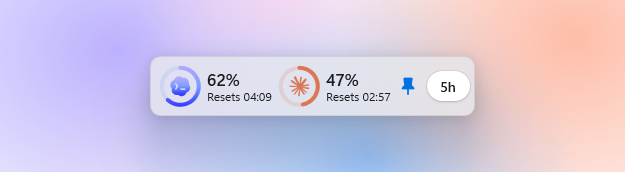
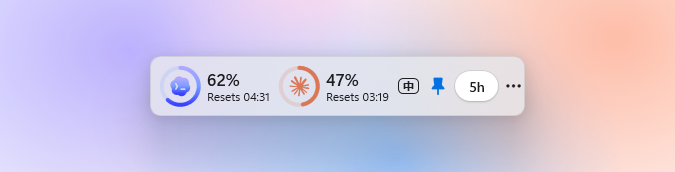
Move the widget menu to a visible button and add a language button
The menu now opens from a ⋯ button to the right of the 5h / 7d toggle,
dropping below the strip and right-aligned with it, instead of on
right-click. An EN / 中 button left of the pin switches the language
in place, so the menu no longer carries that item. The strip widens
from 260 to 300 DIP to fit both buttons.

Desktop tests now open the menu through ⋯, check its placement, and
switch language through the new button. README screenshots updated.

Changed region(s): [[0.2128, 0.3198, 0.7904, 0.6686]]

diff --git a/desktop/Widget.cs b/desktop/Widget.cs
@@ -97,11 +97,13 @@ namespace AgentHud
         readonly Border rim = new Border { BorderThickness = new Thickness(1), Margin = new Thickness(1), IsHitTestVisible = false };
         readonly System.Windows.Shapes.Path pinShape = new System.Windows.Shapes.Path { Data = Geometry.Parse("M5,2 H11 L10.3,7.3 L12.5,10 H3.5 L5.7,7.3 Z M8,10 V14.5"), StrokeThickness = 1.4, StrokeLineJoin = PenLineJoin.Round, StrokeStartLineCap = PenLineCap.Round, StrokeEndLineCap = PenLineCap.Round };
         readonly System.Windows.Shapes.Path pinSlash = new System.Windows.Shapes.Path { Data = Geometry.Parse("M2,2 L14,14"), StrokeThickness = 1.5, StrokeStartLineCap = PenLineCap.Round, StrokeEndLineCap = PenLineCap.Round };
+        readonly TextBlock langText = new TextBlock { FontSize = 8.5, FontWeight = FontWeights.SemiBold, HorizontalAlignment = HorizontalAlignment.Center, VerticalAlignment = VerticalAlignment.Center };
         Grid capsule;
         Palette palette;
         WidgetState saved = new WidgetState();
         Snapshot snapshot;
-        Button periodButton, pinButton;
+        Button periodButton, pinButton, langButton, moreButton;
+        ContextMenu menu;
         Forms.NotifyIcon tray;
         bool busy, online, exiting, degraded;
         double lastServiceStart;
@@ -114,7 +116,7 @@ namespace AgentHud
             ReadState();
             Lang.Apply(saved.language);
             Title = "Agent HUD Widget";
-            Width = 260; Height = 48;
+            Width = 300; Height = 48;
             WindowStyle = WindowStyle.None; ResizeMode = ResizeMode.NoResize;
             // Not a layered window: DWM only honours the capsule region for the blur on regular windows.
             // The glass frame spans the whole client area so transparent pixels show the blurred backdrop.
@@ -214,8 +216,8 @@ namespace AgentHud
             capsule = new Grid { Cursor = Cursors.SizeAll, Background = Brushes.Transparent };
             capsule.Children.Add(tint); capsule.Children.Add(sheen); capsule.Children.Add(edge); capsule.Children.Add(rim);
             var body = new Grid();
-            // The two buttons get the strip's full height as hit area (the visible chip stays small).
-            foreach (var width in new[] { 7.0, 34, 5, 52, 5, 34, 5, 52, -1, 22, 42, 2 })
+            // Language · pin · period · more: each button gets the strip's full height as hit area (the visible chip stays small).
+            foreach (var width in new[] { 7.0, 34, 5, 52, 5, 34, 5, 52, -1, 24, 22, 40, 18, 2 })
                 body.ColumnDefinitions.Add(new ColumnDefinition { Width = width < 0 ? new GridLength(1, GridUnitType.Star) : new GridLength(width) });
             capsule.Children.Add(body);
             codex.VerticalAlignment = VerticalAlignment.Center; Grid.SetColumn(codex, 1); body.Children.Add(codex);
@@ -223,27 +225,35 @@ namespace AgentHud
             claude.VerticalAlignment = VerticalAlignment.Center; Grid.SetColumn(claude, 5); body.Children.Add(claude);
             Grid.SetColumn(claudeLabel, 7); body.Children.Add(claudeLabel);
 
-            capsule.ContextMenu = BuildMenu();
+            // Same mark as the dashboard's language button: the language it switches to, in a rounded outline.
+            langText.SetResourceReference(TextBlock.ForegroundProperty, "Text");
+            var langGlyph = new Border { MinWidth = 17, Height = 13, CornerRadius = new CornerRadius(3.5), BorderThickness = new Thickness(1.1), Padding = new Thickness(2, 0, 2, 0), Child = langText, HorizontalAlignment = HorizontalAlignment.Center, VerticalAlignment = VerticalAlignment.Center };
+            langGlyph.SetResourceReference(Border.BorderBrushProperty, "Text");
+            langButton = IconButton(langGlyph, 24, "LanguageButton", 9);
+            langButton.Click += delegate { ToggleLanguage(); };
+
             var pinIcon = new Grid { Width = 16, Height = 16, VerticalAlignment = VerticalAlignment.Center, HorizontalAlignment = HorizontalAlignment.Center };
             pinIcon.Children.Add(pinShape); pinIcon.Children.Add(pinSlash);
-            // One click pins, the next unpins; the full menu stays on right-click anywhere on the strip.
-            pinButton = new Button { Content = pinIcon, Width = 22, Height = 46, RenderTransform = new ScaleTransform(), RenderTransformOrigin = new Point(.5, .5) };
-            pinButton.SetResourceReference(StyleProperty, "IconChip");
-            AutomationProperties.SetAutomationId(pinButton, "PinButton");
+            // One click pins, the next unpins.
+            pinButton = IconButton(pinIcon, 22, "PinButton", 10);
             pinButton.Click += delegate { SetPinned(!saved.pinned); };
-            pinButton.PreviewMouseLeftButtonDown += delegate { Press(pinButton, .9, 100); };
-            pinButton.PreviewMouseLeftButtonUp += delegate { Press(pinButton, 1, 220); };
-            pinButton.MouseLeave += delegate { Press(pinButton, 1, 220); };
-            Grid.SetColumn(pinButton, 9); body.Children.Add(pinButton);
 
-            periodButton = new Button { Content = "5h", Width = 42, Height = 46, FontSize = 11, FontWeight = FontWeights.SemiBold, RenderTransform = new ScaleTransform() };
+            periodButton = new Button { Content = "5h", Width = 40, Height = 46, FontSize = 11, FontWeight = FontWeights.SemiBold, RenderTransform = new ScaleTransform() };
             periodButton.SetResourceReference(StyleProperty, "GlassChip");
             periodButton.Click += delegate { SetPeriod(saved.period == 300 ? 10080 : 300); };
-            // Feedback on pointer-down, not release.
-            periodButton.PreviewMouseLeftButtonDown += delegate { Press(periodButton, .94, 100); };
-            periodButton.PreviewMouseLeftButtonUp += delegate { Press(periodButton, 1, 220); };
-            periodButton.MouseLeave += delegate { Press(periodButton, 1, 220); };
-            Grid.SetColumn(periodButton, 10); body.Children.Add(periodButton);
+            AddPressFeedback(periodButton, .94);
+            Grid.SetColumn(periodButton, 11); body.Children.Add(periodButton);
+
+            // The menu lives behind ⋯ rather than on right-click, so it can be found by looking.
+            var dots = new GeometryGroup();
+            foreach (var x in new[] { 1.5, 6, 10.5 }) dots.Children.Add(new EllipseGeometry(new Point(x, 1.5), 1.35, 1.35));
+            var dotsShape = new System.Windows.Shapes.Path { Data = dots, HorizontalAlignment = HorizontalAlignment.Center, VerticalAlignment = VerticalAlignment.Center };
+            dotsShape.SetResourceReference(System.Windows.Shapes.Shape.FillProperty, "Text");
+            moreButton = IconButton(dotsShape, 18, "MoreButton", 12);
+            moreButton.Click += delegate { OpenMenu(); };
+            menu = BuildMenu();
+            UpdateLanguageButton();
+            body.Children.Add(langButton); body.Children.Add(pinButton); body.Children.Add(moreButton);
 
             capsule.MouseLeftButtonDown += delegate(object sender, MouseButtonEventArgs e)
             {
@@ -254,6 +264,22 @@ namespace AgentHud
             return capsule;
         }
 
+        static Button IconButton(UIElement content, double width, string automationId, int column)
+        {
+            var button = new Button { Content = content, Width = width, Height = 46, RenderTransform = new ScaleTransform(), RenderTransformOrigin = new Point(.5, .5) };
+            button.SetResourceReference(StyleProperty, "IconChip");
+            AutomationProperties.SetAutomationId(button, automationId);
+            AddPressFeedback(button, .9);
+            Grid.SetColumn(button, column);
+            return button;
+        }
+        // Feedback on pointer-down, not release.
+        static void AddPressFeedback(Button button, double scale)
+        {
+            button.PreviewMouseLeftButtonDown += delegate { Press(button, scale, 100); };
+            button.PreviewMouseLeftButtonUp += delegate { Press(button, 1, 220); };
+            button.MouseLeave += delegate { Press(button, 1, 220); };
+        }
         // Starts from the current scale, so a quick tap reverses mid-flight; no overshoot.
         static void Press(UIElement element, double to, int milliseconds)
         {
@@ -272,21 +298,40 @@ namespace AgentHud
             top.Click += delegate { SetPinned(top.IsChecked); top.IsChecked = saved.pinned; };
             var hide = new MenuItem { Header = Lang.T("收起到托盘", "Hide to tray") }; hide.Click += delegate { Hide(); };
             var reset = new MenuItem { Header = Lang.T("重置小组件位置", "Reset widget position") }; reset.Click += delegate { placement.Reset(); };
-            var language = new MenuItem { Header = LanguageSwitchText() }; language.Click += delegate { ToggleLanguage(); };
             var quit = new MenuItem { Header = Lang.T("退出小组件", "Quit widget") }; quit.Click += delegate { Close(); };
             // Keep "always on top" at index 4: the desktop tests drive it by position.
             menu.Items.Add(open); menu.Items.Add(codexUsage); menu.Items.Add(claudeUsage); menu.Items.Add(new Separator());
-            menu.Items.Add(top); menu.Items.Add(hide); menu.Items.Add(reset); menu.Items.Add(language); menu.Items.Add(new Separator()); menu.Items.Add(quit);
+            menu.Items.Add(top); menu.Items.Add(hide); menu.Items.Add(reset); menu.Items.Add(new Separator()); menu.Items.Add(quit);
             menu.Opened += delegate { top.IsChecked = saved.pinned; }; return menu;
+        }
+        // Drops below the strip, right-aligned with it. The menu template keeps a 14 DIP transparent
+        // margin for its shadow, so the offsets cancel it; WPF flips the menu above near the screen bottom.
+        void OpenMenu()
+        {
+            menu.PlacementTarget = capsule; menu.Placement = PlacementMode.Bottom;
+            menu.Measure(new Size(double.PositiveInfinity, double.PositiveInfinity));
+            menu.HorizontalOffset = capsule.ActualWidth - menu.DesiredSize.Width + 14;
+            menu.VerticalOffset = -14 + 6;
+            menu.IsOpen = true;
         }
         // Written in the language it switches to, so it can be found by someone who can't read the current one.
         static string LanguageSwitchText() { return Lang.English ? "切换到中文" : "Switch to English"; }
+        void UpdateLanguageButton()
+        {
+            langText.Text = Lang.English ? "中" : "EN";
+            langButton.ToolTip = LanguageSwitchText();
+            AutomationProperties.SetName(langButton, LanguageSwitchText());
+            moreButton.ToolTip = Lang.T("更多选项", "More options");
+            AutomationProperties.SetName(moreButton, Lang.T("更多选项", "More options"));
+        }
         void ToggleLanguage() { SetLanguage(Lang.English ? "zh" : "en"); }
         // Saved, then every visible string is rebuilt in place — no restart needed.
         void SetLanguage(string language)
         {
             saved.language = language; Lang.Apply(language); SaveState();
-            capsule.ContextMenu = BuildMenu();
+            menu.IsOpen = false;
+            menu = BuildMenu();
+            UpdateLanguageButton();
             var oldTray = tray.ContextMenuStrip;
             tray.Text = Lang.T("Agent HUD · 额度小组件", "Agent HUD · quota widget");
             tray.ContextMenuStrip = BuildTrayMenu();
@@ -318,7 +363,7 @@ namespace AgentHud
             pinShape.Stroke = brush; pinShape.Fill = saved.pinned ? brush : Brushes.Transparent;
             pinSlash.Stroke = brush; pinSlash.Visibility = saved.pinned ? Visibility.Collapsed : Visibility.Visible;
             var action = saved.pinned ? Lang.T("已置顶 · 点击取消置顶", "Pinned · click to unpin") : Lang.T("未置顶 · 点击置顶", "Not pinned · click to pin");
-            pinButton.ToolTip = action + Lang.T("\n右键打开更多选项", "\nRight-click for more options");
+            pinButton.ToolTip = action;
             AutomationProperties.SetName(pinButton, saved.pinned ? Lang.T("已置顶，点击取消置顶", "Pinned, click to unpin") : Lang.T("未置顶，点击置顶", "Not pinned, click to pin"));
         }
         async Task Fetch()
@@ -368,7 +413,7 @@ namespace AgentHud
             var wasDegraded = degraded;
             degraded = !online;
             if (degraded != wasDegraded) rim.BorderBrush = degraded ? palette.RimOffline : palette.Rim;
-            var detail = Lang.T("拖动可移动 · 靠近屏幕边缘自动贴边 · 右键打开菜单\n", "Drag to move · snaps to screen edges · right-click for the menu\n")
+            var detail = Lang.T("拖动可移动 · 靠近屏幕边缘自动贴边 · ⋯ 打开菜单\n", "Drag to move · snaps to screen edges · ⋯ opens the menu\n")
                 + (!online ? Lang.T("本地服务离线，正在自动重启；显示的是最后一次快照", "Local service offline, restarting automatically; showing the last snapshot")
                     : snapshot.loading ? Lang.T("正在读取额度", "Reading quotas")
                     : scanStale ? Lang.T("会话扫描延迟，额度不受影响", "Session scan delayed; quotas are unaffected")

diff --git a/desktop/test/TopmostTests.cs b/desktop/test/TopmostTests.cs
@@ -31,32 +31,33 @@ namespace AgentHud.Tests
             if (!condition) throw new Exception(message);
             Console.WriteLine("PASS " + message);
         }
+        static ContextMenu Menu(HudWindow hud) { return (ContextMenu)typeof(HudWindow).GetField("menu", System.Reflection.BindingFlags.NonPublic | System.Reflection.BindingFlags.Instance).GetValue(hud); }
         static void Toggle(HudWindow hud, bool pinned)
         {
-            var menu = ((FrameworkElement)hud.Content).ContextMenu;
-            var item = (MenuItem)menu.Items[4];
+            var item = (MenuItem)Menu(hud).Items[4];
             item.IsChecked = pinned;
             item.RaiseEvent(new RoutedEventArgs(MenuItem.ClickEvent));
             Pump();
         }
-        static Button FindPinButton(DependencyObject node)
+        static Button FindButton(DependencyObject node, string automationId)
         {
             var button = node as Button;
-            if (button != null && AutomationProperties.GetAutomationId(button) == "PinButton") return button;
+            if (button != null && AutomationProperties.GetAutomationId(button) == automationId) return button;
             for (var i = 0; i < VisualTreeHelper.GetChildrenCount(node); i++)
             {
-                var found = FindPinButton(VisualTreeHelper.GetChild(node, i));
+                var found = FindButton(VisualTreeHelper.GetChild(node, i), automationId);
                 if (found != null) return found;
             }
             return null;
         }
-        static void ClickPin(HudWindow hud)
+        static void Click(HudWindow hud, string automationId)
         {
-            var button = FindPinButton(hud);
-            if (button == null) throw new Exception("pin button not found");
+            var button = FindButton(hud, automationId);
+            if (button == null) throw new Exception(automationId + " not found");
             button.RaiseEvent(new RoutedEventArgs(Button.ClickEvent));
             Pump();
         }
+        static string Header(HudWindow hud, int index) { return (string)((MenuItem)Menu(hud).Items[index]).Header; }
         [STAThread]
         public static int Main(string[] args)
         {
@@ -91,21 +92,28 @@ namespace AgentHud.Tests
                     Check(!NativePinned(hud), "unpin survives hide/show");
                     Toggle(hud, true);
                     Check(NativePinned(hud) && hud.Topmost, "pin restores managed and native state");
-                    ClickPin(hud);
+                    Click(hud, "PinButton");
                     Check(!NativePinned(hud) && !hud.Topmost, "pin button click unpins");
-                    ClickPin(hud);
+                    Click(hud, "PinButton");
                     Check(NativePinned(hud) && hud.Topmost, "second pin button click pins again");
-                    var setLanguage = typeof(HudWindow).GetMethod("SetLanguage", System.Reflection.BindingFlags.NonPublic | System.Reflection.BindingFlags.Instance);
-                    setLanguage.Invoke(hud, new object[] { "en" }); Pump();
-                    var englishMenu = ((FrameworkElement)hud.Content).ContextMenu;
-                    Check((string)((MenuItem)englishMenu.Items[4]).Header == "Always on top" && (string)((MenuItem)englishMenu.Items[7]).Header == "切换到中文" && AutomationProperties.GetName(FindPinButton(hud)).StartsWith("Pinned"), "switching to English rebuilds the menu and pin labels live");
-                    Check(NativePinned(hud), "language switch keeps the window pinned");
-                    setLanguage.Invoke(hud, new object[] { "zh" }); Pump();
-                    Check((string)((MenuItem)((FrameworkElement)hud.Content).ContextMenu.Items[4]).Header == "始终置顶", "switching back restores Chinese");
-                    var menu = ((FrameworkElement)hud.Content).ContextMenu;
-                    menu.PlacementTarget = (UIElement)hud.Content;
-                    menu.IsOpen = true; Pump(); menu.IsOpen = false; Pump();
+                    Check(((FrameworkElement)hud.Content).ContextMenu == null, "right-click on the strip no longer opens a menu");
+                    Click(hud, "MoreButton");
+                    var menu = Menu(hud);
+                    var strip = (FrameworkElement)hud.Content;
+                    var stripCorner = strip.PointToScreen(new Point(strip.ActualWidth, strip.ActualHeight));
+                    // The template's 14 DIP shadow margin surrounds the visible menu.
+                    var menuCorner = menu.PointToScreen(new Point(menu.ActualWidth - 14, 14));
+                    Console.WriteLine("Strip bottom-right " + stripCorner + ", menu top-right " + menuCorner);
+                    Check(menu.IsOpen && Math.Abs(menuCorner.X - stripCorner.X) <= 3 && menuCorner.Y > stripCorner.Y && menuCorner.Y - stripCorner.Y < 20, "the more button opens the menu right-aligned just below the strip");
+                    menu.IsOpen = false; Pump();
                     Check(NativePinned(hud), "opening and closing the menu preserves pinning");
+                    // Start from Chinese whatever the machine's display language, so the toggle direction is known.
+                    typeof(HudWindow).GetMethod("SetLanguage", System.Reflection.BindingFlags.NonPublic | System.Reflection.BindingFlags.Instance).Invoke(hud, new object[] { "zh" }); Pump();
+                    Click(hud, "LanguageButton");
+                    Check(Header(hud, 4) == "Always on top" && AutomationProperties.GetName(FindButton(hud, "LanguageButton")) == "切换到中文" && AutomationProperties.GetName(FindButton(hud, "MoreButton")) == "More options" && AutomationProperties.GetName(FindButton(hud, "PinButton")).StartsWith("Pinned"), "the language button switches the menu and button labels to English live");
+                    Check(NativePinned(hud), "language switch keeps the window pinned");
+                    Click(hud, "LanguageButton");
+                    Check(Header(hud, 4) == "始终置顶" && AutomationProperties.GetName(FindButton(hud, "LanguageButton")) == "Switch to English", "a second click switches back to Chinese");
                     var foreground = GetForegroundWindow();
                     // Reproduce a native z-order change without changing WPF's cached Topmost value.
                     Check(SetWindowPos(handle, new IntPtr(-2), 0, 0, 0, 0, 0x213), "native demotion succeeded");

diff --git a/desktop/Models.cs b/desktop/Models.cs
@@ -79,7 +79,7 @@ namespace AgentHud
                 result.Caption = result.Status == RingStatus.Setup ? Lang.T("等待连接", "Connection not enabled") : result.Status == RingStatus.NotLinked ? Lang.T("桌面版未接入", "Desktop app not linked") : Lang.T("额度未提供", "Quota not provided");
                 result.Detail = Lang.Server(provider.quotaMessage) ?? Lang.T("这个平台还没有提供所选周期的额度。可打开完整面板查看接入状态。", "This platform hasn't reported a quota for the selected window yet. Open the dashboard to check the connection.");
                 result.Detail += "\n" + UpdatedText(limits == null ? null : limits.collectedAt, now);
-                result.Detail += provider.id == "claude" ? Lang.T("\n右键小组件 → Claude 官方用量，查看当前账户额度。", "\nRight-click the widget → Claude usage to see this account's quota.") : Lang.T("\n右键小组件 → Codex 官方用量，查看当前账户额度。", "\nRight-click the widget → Codex usage to see this account's quota.");
+                result.Detail += provider.id == "claude" ? Lang.T("\n点 ⋯ → Claude 官方用量，查看当前账户额度。", "\n⋯ → Claude usage shows this account's quota.") : Lang.T("\n点 ⋯ → Codex 官方用量，查看当前账户额度。", "\n⋯ → Codex usage shows this account's quota.");
                 return result;
             }
             if (win.resetsAt.HasValue && win.resetsAt.Value <= now)

diff --git a/desktop/Theme.cs b/desktop/Theme.cs
@@ -180,7 +180,7 @@ namespace AgentHud
     <Setter Property='Focusable' Value='False'/>
     <Setter Property='Template'><Setter.Value><ControlTemplate TargetType='Button'>
       <Grid Background='Transparent'>
-        <Border x:Name='Bd' Width='20' Height='30' CornerRadius='10' Background='Transparent'/>
+        <Border x:Name='Bd' Height='30' Margin='1,0' CornerRadius='10' Background='Transparent'/>
         <ContentPresenter HorizontalAlignment='Center' VerticalAlignment='Center'/>
       </Grid>
       <ControlTemplate.Triggers>

diff --git a/README.md b/README.md
@@ -20,7 +20,7 @@
 </p>
 
 <p align="center">
-  <img src="docs/images/widget-en.png" width="625" alt="Desktop widget: Codex and Claude quota rings with their logos, remaining percentage and reset time">
+  <img src="docs/images/widget-en.png" width="675" alt="Desktop widget: Codex and Claude quota rings with their logos, remaining percentage and reset time">
 </p>
 
 <p align="center">
@@ -71,15 +71,15 @@ Reference: [Codex App Server documentation](https://learn.chatgpt.com/docs/app-s
 
 The widget runs `desktop/bin/AgentHUD.exe` directly and brings the local quota service back on its own. Earlier versions launched through `Agent HUD.vbs` and `start-widget.ps1`, which antivirus software (Norton) quarantined, so the entry point no longer depends on scripts. On the first run of a freshly built exe, some antivirus products hold it for tens of seconds while scanning.
 
-The widget is a 260 × 48 DIP frosted-glass strip: it blurs whatever is behind it live, uses Windows 11's native rounded corners, scales with Windows display scaling to roughly taskbar height, and follows the Windows app light/dark theme (matching the dashboard). With Windows transparency effects off it switches to an opaque background. The rings use each brand's colors (Codex's blue-violet gradient, Claude's clay orange) with the brand's mark in the center and the remaining percentage beside it; the percentage turns red below 20%.
+The widget is a 300 × 48 DIP frosted-glass strip: it blurs whatever is behind it live, uses Windows 11's native rounded corners, scales with Windows display scaling to roughly taskbar height, and follows the Windows app light/dark theme (matching the dashboard). With Windows transparency effects off it switches to an opaque background. The rings use each brand's colors (Codex's blue-violet gradient, Claude's clay orange) with the brand's mark in the center and the remaining percentage beside it; the percentage turns red below 20%.
 
-Drag empty space to move it. On release it snaps to the edge of the screen's work area when close, and it remembers the monitor and relative position. Restored positions avoid the taskbar and gaps between monitors, are corrected after display or scaling changes, and fall back to the primary screen if the original one is gone. Both the right-click menu and the tray menu offer *Reset widget position*.
+Drag empty space to move it. On release it snaps to the edge of the screen's work area when close, and it remembers the monitor and relative position. Restored positions avoid the taskbar and gaps between monitors, are corrected after display or scaling changes, and fall back to the primary screen if the original one is gone. Both the ⋯ menu and the tray menu offer *Reset widget position*.
 
 `5h` / `7d` on the right switches the quota window. Under each percentage is the quota's reset time: the clock time when it's within a day ("Resets 14:30"), otherwise the weekday ("Resets Thu", or "Next Thu" when it falls on the same weekday next week). It reads "Offline" when the local service is offline, and "Codex left" / "Claude left" when the platform gives no reset time. Hover a ring for when the quota was actually collected, how long ago that was, the reset countdown, the full date, and the source. Local snapshots are read every 5 seconds; Codex's official quota is normally queried about once a minute and Claude's desktop quota about every 5 minutes, and both may lag when connections fail. An unknown time is never shown as "just now".
 
-A solid blue pin means always-on-top; a hollow pin with a slash means not pinned. Click the pin once to pin, again to unpin. Right-click the widget for the menu: toggle always-on-top, open the dashboard or the Codex / Claude usage pages, hide to the tray, switch language, or quit.
+A solid blue pin means always-on-top; a hollow pin with a slash means not pinned. Click the pin once to pin, again to unpin. The ⋯ to the right of `5h` / `7d` opens the menu: toggle always-on-top, open the dashboard or the Codex / Claude usage pages, hide to the tray, reset the position, or quit.
 
-The widget comes in English and Chinese. By default it follows the Windows display language; *Switch to English* / *切换到中文* in the right-click or tray menu changes it on the spot, and the choice is saved. Status text that the local service sends (quota sources, connection messages) is translated too.
+The widget comes in English and Chinese. By default it follows the Windows display language; the **EN** / **中** button left of the pin (or *Switch to English* / *切换到中文* in the tray menu) changes it on the spot, and the choice is saved. Status text that the local service sends (quota sources, connection messages) is translated too.
 
 When the local service is offline the edge turns orange and the widget shows "Offline"; after two failed reads in a row it restarts the service with `start.ps1` (at most once a minute). Rings aren't redrawn when nothing changed; when hidden, the widget stops UI updates and animation but keeps fetching, and shows the latest snapshot as soon as it's restored. Tray and exit signals are event-driven rather than polled every second.
 
@@ -127,7 +127,7 @@ Other platforms can be added as adapters in `lib/collector.mjs`, reusing the com
 
 `npm test` or `node --test test/*.test.mjs`. Covers cache accounting, reasoning not double-counted, streamed-response deduplication, inherited-record exclusion, empty quotas, reset times and incremental reads.
 
-Windows desktop regression: `powershell -ExecutionPolicy Bypass -File desktop/test.ps1`. It briefly shows separate test windows and uses its own state under `.data/desktop-tests`, without touching your real widget's position or settings. Covers always-on-top recovery, pin-click toggling, language switching, not stealing focus, tray show and exit signals, update and reset-time display, positioning across monitor gaps / negative coordinates / unplugged screens / scaling, correcting real out-of-bounds windows, no rendering while hidden, and no redraw of unchanged rings. Real multi-monitor hot-plugging and dragging between monitors with different DPI still need checking on matching hardware.
+Windows desktop regression: `powershell -ExecutionPolicy Bypass -File desktop/test.ps1`. It briefly shows separate test windows and uses its own state under `.data/desktop-tests`, without touching your real widget's position or settings. Covers always-on-top recovery, pin-click toggling, the ⋯ menu and its placement, the language button, not stealing focus, tray show and exit signals, update and reset-time display, positioning across monitor gaps / negative coordinates / unplugged screens / scaling, correcting real out-of-bounds windows, no rendering while hidden, and no redraw of unchanged rings. Real multi-monitor hot-plugging and dragging between monitors with different DPI still need checking on matching hardware.
 
 Update regression: `powershell -ExecutionPolicy Bypass -File desktop/test-launcher.ps1`, using a temporary project and background test processes. Covers first build, skipping unchanged sources, content checks when timestamps don't change, ordered replacement, and keeping the old process and binary when compilation fails; compatible with Windows PowerShell 5.1.
 

diff --git a/README.zh-CN.md b/README.zh-CN.md
@@ -20,7 +20,7 @@
 </p>
 
 <p align="center">
-  <img src="docs/images/widget-zh.png" width="625" alt="桌面小组件：Codex 与 Claude 的额度圆环、标志、剩余百分比和重置时间">
+  <img src="docs/images/widget-zh.png" width="675" alt="桌面小组件：Codex 与 Claude 的额度圆环、标志、剩余百分比和重置时间">
 </p>
 
 <p align="center">
@@ -71,15 +71,15 @@
 
 小组件直接启动 `desktop/bin/AgentHUD.exe`，启动后会自动恢复本地额度服务。早期版本通过 `Agent HUD.vbs` 和 `start-widget.ps1` 启动，曾被杀毒软件（Norton）拦截，因此当前入口不再依赖脚本。新编译的程序首次运行时，部分杀毒软件会先扫描数十秒才放行。
 
-小组件是 260 × 48 DIP 的毛玻璃横条：实时模糊背后的内容，使用 Windows 11 原生圆角，随 Windows 显示缩放调整，接近默认任务栏高度，并跟随 Windows 应用的浅色/深色主题（与完整面板一致）。系统关闭“透明效果”时改用不透明底色。圆环使用两家的品牌色（Codex 蓝紫渐变、Claude 陶土橙），中心是各自的标志，旁边显示剩余百分比；低于 20% 时百分比变红。
+小组件是 300 × 48 DIP 的毛玻璃横条：实时模糊背后的内容，使用 Windows 11 原生圆角，随 Windows 显示缩放调整，接近默认任务栏高度，并跟随 Windows 应用的浅色/深色主题（与完整面板一致）。系统关闭“透明效果”时改用不透明底色。圆环使用两家的品牌色（Codex 蓝紫渐变、Claude 陶土橙），中心是各自的标志，旁边显示剩余百分比；低于 20% 时百分比变红。
 
-按住空白处拖动可移动，松手时靠近屏幕工作区边缘会贴边，并自动保存显示器及相对位置。恢复位置会避开任务栏和多屏之间的空隙；显示器或缩放变化后重新校正，找不到原屏幕时回到主屏。右键菜单和托盘菜单均提供“重置小组件位置”。
+按住空白处拖动可移动，松手时靠近屏幕工作区边缘会贴边，并自动保存显示器及相对位置。恢复位置会避开任务栏和多屏之间的空隙；显示器或缩放变化后重新校正，找不到原屏幕时回到主屏。⋯ 菜单和托盘菜单均提供“重置小组件位置”。
 
 右侧 `5h` / `7d` 切换额度周期。百分比下方显示额度重置时间：一天内显示具体时刻（如“14:30 重置”），更远时显示星期（如“周四重置”，跨到下周同一天为“下周四重置”）；离线时此处显示“离线”，平台未提供重置时间时显示平台名。悬停圆环可查看额度的实际采集时间、多久前更新、重置倒计时、完整日期与来源。本地快照每 5 秒读取一次，Codex 官方额度正常约每分钟查询、Claude 桌面额度正常约每 5 分钟查询，连接失败时可能延迟。未知时间不会显示成“刚刚”。
 
-蓝色实心图钉表示已置顶，带斜线的空心图钉表示未置顶；点一下图钉即切换置顶，再点一下取消。右键小组件打开菜单，可切换置顶、打开面板或 Codex / Claude 官方用量页、收起至托盘、切换语言或退出。
+蓝色实心图钉表示已置顶，带斜线的空心图钉表示未置顶；点一下图钉即切换置顶，再点一下取消。`5h` / `7d` 右边的 ⋯ 打开菜单，可切换置顶、打开面板或 Codex / Claude 官方用量页、收起至托盘、重置位置或退出。
 
-小组件支持中文和英文：默认跟随 Windows 显示语言；右键菜单或托盘菜单中的“Switch to English / 切换到中文”可立即切换，选择会被保存。本地服务发来的状态文字（额度来源、连接提示）也会一并翻译。
+小组件支持中文和英文：默认跟随 Windows 显示语言；点图钉左边的 **EN** / **中** 按钮（或托盘菜单中的“Switch to English / 切换到中文”）可立即切换，选择会被保存。本地服务发来的状态文字（额度来源、连接提示）也会一并翻译。
 
 本地服务离线时边缘变橙并显示“离线”，小组件在连续两次读取失败后自动用 `start.ps1` 重启服务（最多每分钟一次）。值和显示状态未变化时不重复重绘圆环；收起后停止界面更新和动画，继续获取数据，恢复时立即显示最新快照。托盘与退出信号由事件唤醒，不再每秒轮询。
 
@@ -127,7 +127,7 @@ Windows 上建议使用 Node.js 24.5+；HUD 会同时使用 Node 默认证书和
 
 `npm test` 或 `node --test test/*.test.mjs`。测试包含缓存口径、推理不重复、流式响应去重、继承记录排除、空额度、重置时间与增量读取。
 
-Windows 桌面回归：`powershell -ExecutionPolicy Bypass -File desktop/test.ps1`。测试会短暂显示独立测试窗口，在 `.data/desktop-tests` 下使用独立状态，不修改实际小组件的位置与设置。覆盖置顶恢复、图钉点击切换、中英文切换、不抢焦点、托盘显示与退出信号、更新时间与重置时间显示、屏幕空隙/负坐标/断屏/缩放后的定位计算、真实窗口越界校正、隐藏停止渲染及未变化的圆环不重绘。真实多屏热插拔和不同显示器 DPI 间的拖动仍需在相应硬件上验收。
+Windows 桌面回归：`powershell -ExecutionPolicy Bypass -File desktop/test.ps1`。测试会短暂显示独立测试窗口，在 `.data/desktop-tests` 下使用独立状态，不修改实际小组件的位置与设置。覆盖置顶恢复、图钉点击切换、⋯ 菜单及其弹出位置、语言按钮、不抢焦点、托盘显示与退出信号、更新时间与重置时间显示、屏幕空隙/负坐标/断屏/缩放后的定位计算、真实窗口越界校正、隐藏停止渲染及未变化的圆环不重绘。真实多屏热插拔和不同显示器 DPI 间的拖动仍需在相应硬件上验收。
 
 自动更新回归：`powershell -ExecutionPolicy Bypass -File desktop/test-launcher.ps1`，使用临时项目与后台测试进程，覆盖首次构建、跳过未变化的源码、时间戳不变时的内容检测、有序替换、编译失败保留旧进程与旧程序；兼容 Windows PowerShell 5.1。
 
